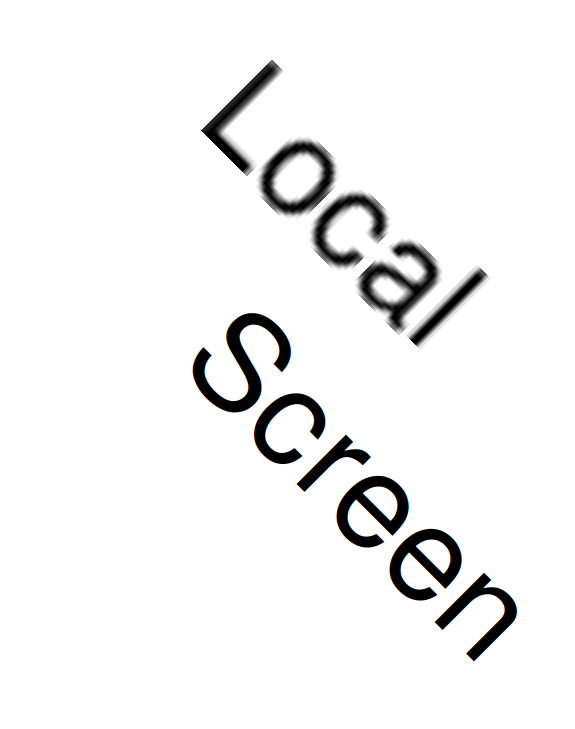
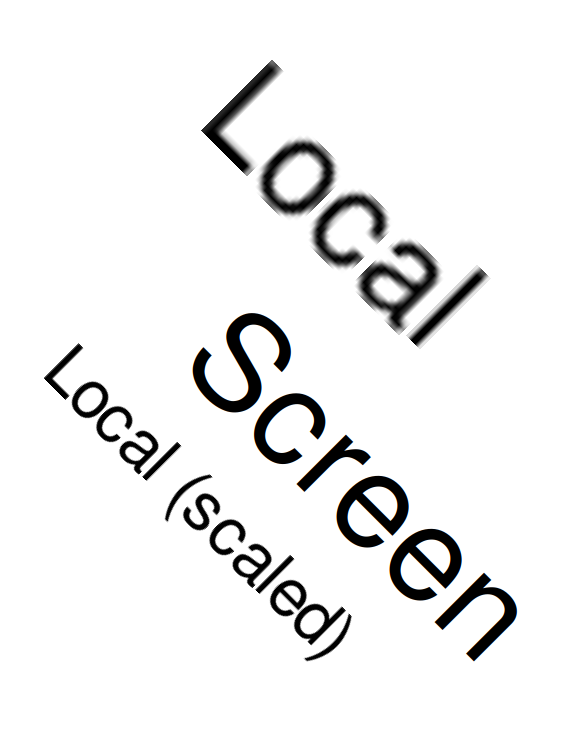
Bug 1491929 - Text is rasterized at the wrong resolution. r=kvark
Differential Revision: https://phabricator.services.mozilla.com/D20276

[wrupdater] From https://hg.mozilla.org/mozilla-central/rev/786d76ec70a89c3c92c2527e7f19475bd4ff4537

Changed region(s): [[0.0591, 0.4527, 0.3252, 0.6639], [0.3843, 0.7243, 0.6209, 0.9053], [0.2661, 0.6337, 0.4139, 0.7545]]

diff --git a/src/webrender/src/prim_store/text_run.rs b/src/webrender/src/prim_store/text_run.rs
@@ -68,6 +68,7 @@ impl AsInstanceKind<TextRunDataHandle> for TextRunKey {
             reference_frame_relative_offset,
             shadow: self.shadow,
             raster_space: RasterizationSpace::Screen,
+            inverse_raster_scale: 1.0,
         });
 
         PrimitiveInstanceKind::TextRun{ data_handle, run_index }
@@ -214,6 +215,7 @@ pub struct TextRunPrimitive {
     pub reference_frame_relative_offset: LayoutVector2D,
     pub shadow: bool,
     pub raster_space: RasterizationSpace,
+    pub inverse_raster_scale: f32,
 }
 
 impl TextRunPrimitive {
@@ -225,8 +227,20 @@ impl TextRunPrimitive {
         allow_subpixel_aa: bool,
         raster_space: RasterSpace,
     ) -> bool {
+        // If local raster space is specified, include that in the scale
+        // of the glyphs that get rasterized.
+        // TODO(gw): Once we support proper local space raster modes, this
+        //           will implicitly be part of the device pixel ratio for
+        //           the (cached) local space surface, and so this code
+        //           will no longer be required.
+        let raster_scale = match raster_space {
+            RasterSpace::Screen => 1.0,
+            RasterSpace::Local(scale) => scale.max(0.001),
+        };
+        self.inverse_raster_scale = 1.0 / raster_scale;
+
         // Get the current font size in device pixels
-        let device_font_size = specified_font.size.scale_by(device_pixel_scale.0);
+        let device_font_size = specified_font.size.scale_by(device_pixel_scale.0 * raster_scale);
 
         // Determine if rasterizing glyphs in local or screen space.
         // Only support transforms that can be coerced to simple 2D transforms.
@@ -337,5 +351,5 @@ fn test_struct_sizes() {
     assert_eq!(mem::size_of::<TextRun>(), 88, "TextRun size changed");
     assert_eq!(mem::size_of::<TextRunTemplate>(), 104, "TextRunTemplate size changed");
     assert_eq!(mem::size_of::<TextRunKey>(), 96, "TextRunKey size changed");
-    assert_eq!(mem::size_of::<TextRunPrimitive>(), 96, "TextRunPrimitive size changed");
+    assert_eq!(mem::size_of::<TextRunPrimitive>(), 104, "TextRunPrimitive size changed");
 }

diff --git a/src/webrender/src/batch.rs b/src/webrender/src/batch.rs
@@ -851,7 +851,7 @@ impl AlphaBatchBuilder {
                             [
                                 (run.reference_frame_relative_offset.x * 256.0) as i32,
                                 (run.reference_frame_relative_offset.y * 256.0) as i32,
-                                run.raster_space as i32,
+                                (run.inverse_raster_scale * 65535.0).round() as i32,
                             ],
                         );
                         let key = BatchKey::new(kind, blend_mode, textures);
@@ -866,7 +866,8 @@ impl AlphaBatchBuilder {
 
                         for glyph in glyphs {
                             batch.push(base_instance.build(
-                                glyph.index_in_text_run,
+                                glyph.index_in_text_run |
+                                (run.raster_space as i32) << 16,
                                 glyph.uv_rect_address.as_int(),
                                 (subpx_dir as u32 as i32) << 16 |
                                 (color_mode as u32 as i32),
